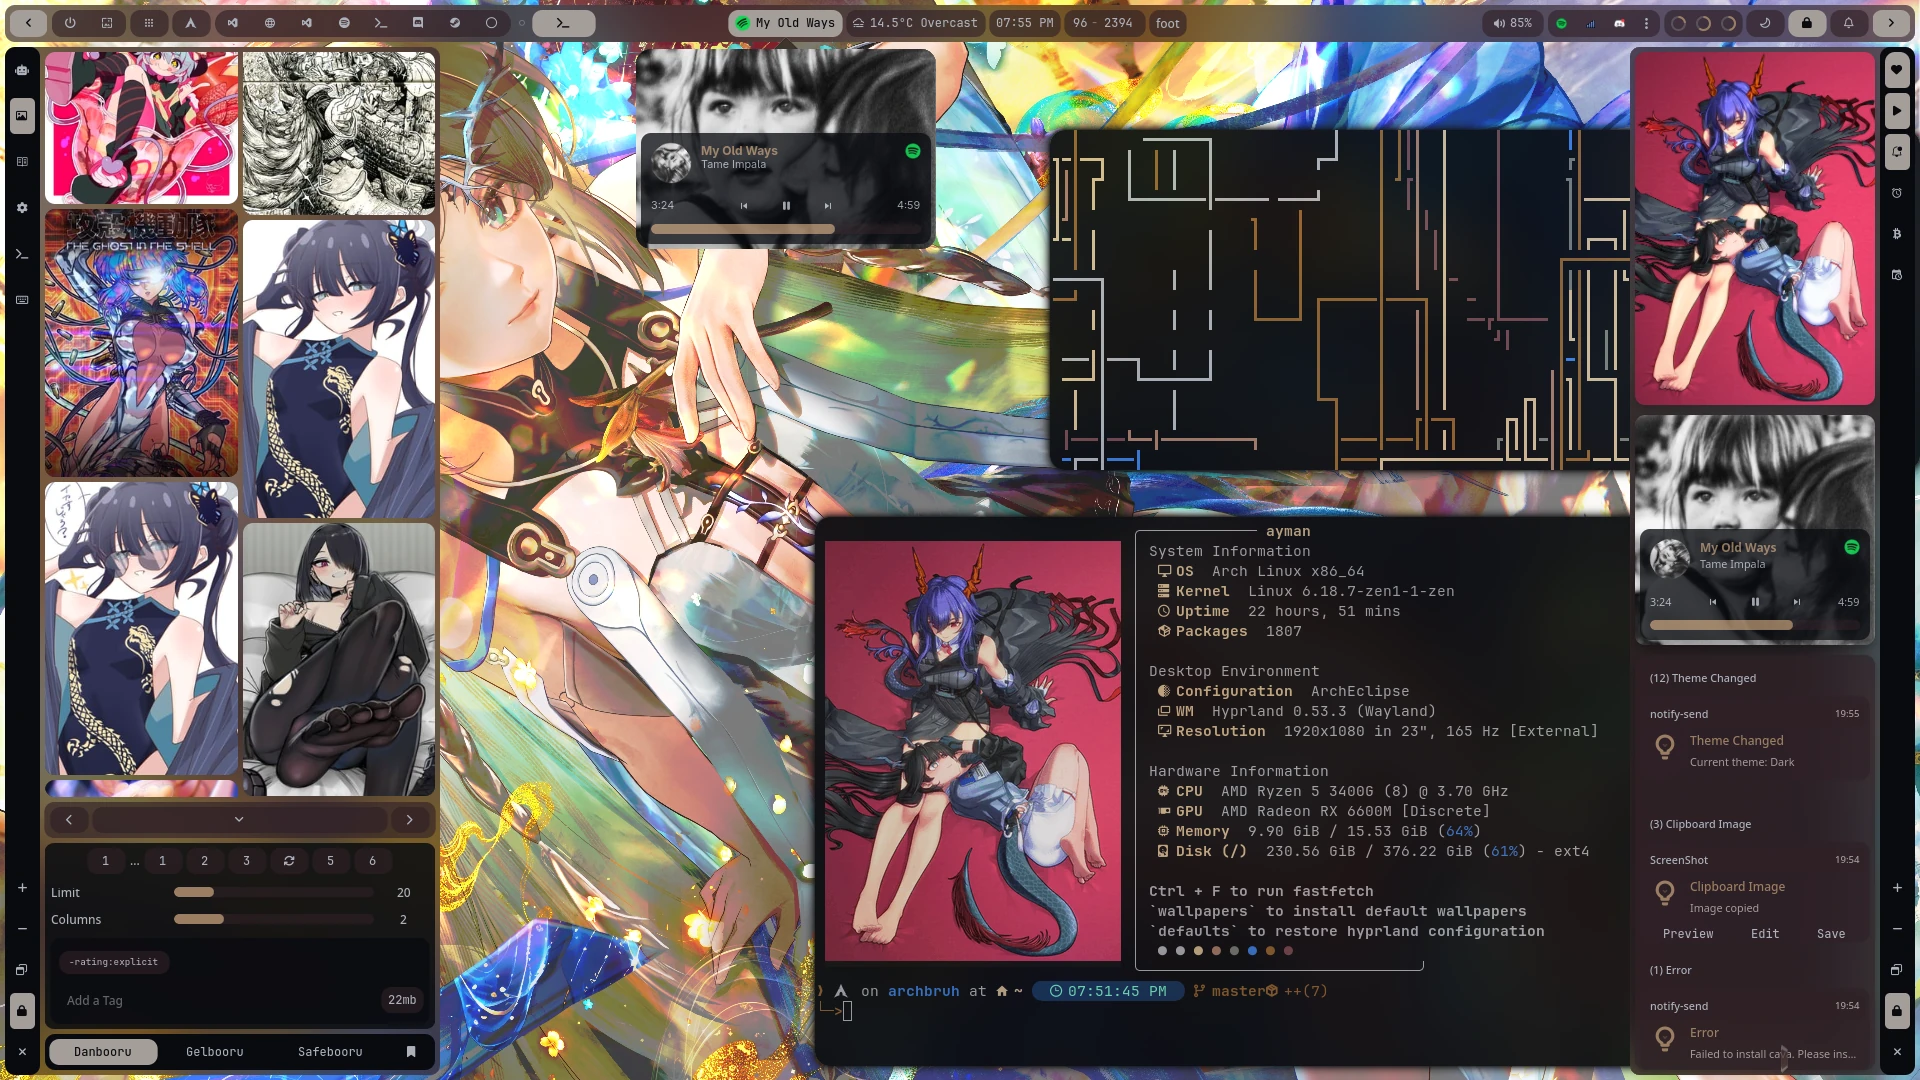
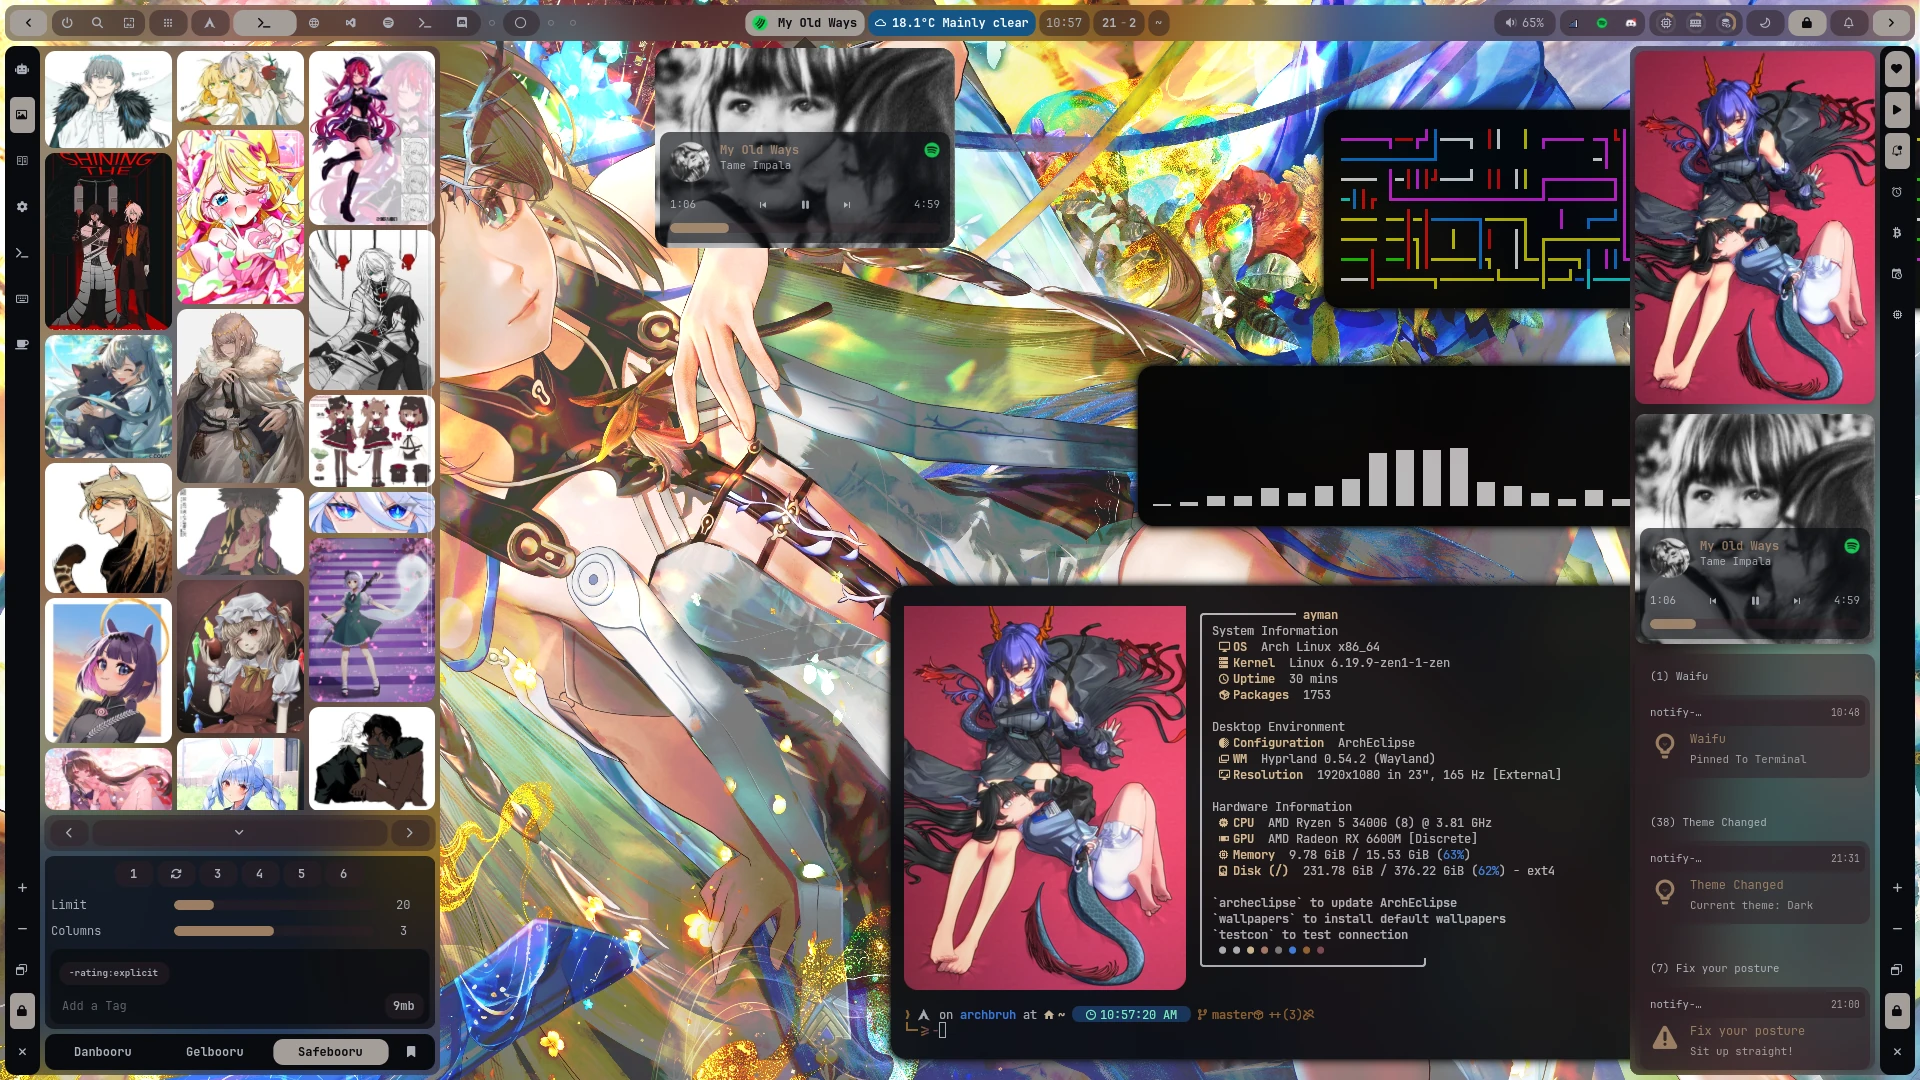
feat: refactor styles in Picture and WallpaperSwitcher, enhance Weather component, update README for clarity

diff --git a/.config/ags/widgets/Weather.tsx b/.config/ags/widgets/Weather.tsx
@@ -134,7 +134,7 @@ const weatherIcon = (w: any) => {
   return ""; // default to clear
 };
 
-export function Weather() {
+export function Weather({ moreDetails = false }: { moreDetails?: boolean }) {
   return (
     <box class="weather" spacing={12} orientation={Gtk.Orientation.VERTICAL}>
       <With value={weatherData}>
@@ -230,6 +230,7 @@ export function Weather() {
                 class={"weather-section"}
                 orientation={Gtk.Orientation.VERTICAL}
                 spacing={12}
+                visible={moreDetails}
               >
                 <label class="weather-subheading" label="Today's Forecast" />
                 <box class="daily-forecast" spacing={8}>
@@ -288,6 +289,7 @@ export function Weather() {
                 class={"weather-section"}
                 orientation={Gtk.Orientation.VERTICAL}
                 spacing={12}
+                visible={moreDetails}
               >
                 <label class="weather-subheading" label="Hourly Forecast" />
 
@@ -397,7 +399,7 @@ export function WeatherButton() {
           autohide: true,
         });
 
-        popover.set_child((<Weather />) as unknown as Gtk.Widget);
+        popover.set_child((<Weather moreDetails />) as unknown as Gtk.Widget);
         popover.set_parent(self);
 
         popover.connect("notify::visible", () => {

diff --git a/.config/ags/widgets/WallpaperSwitcher.tsx b/.config/ags/widgets/WallpaperSwitcher.tsx
@@ -127,7 +127,10 @@ function Display() {
                     <Picture
                       class="wallpaper"
                       file={toThumbnailPath(wallpaper)}
-                      info={[wallpaper.split(".").pop() || "unknown"]}
+                      info={[
+                        String(workspaceId + 1),
+                        wallpaper.split(".").pop() || "unknown",
+                      ]}
                     ></Picture>
                   )}
                 </button>
@@ -445,9 +448,14 @@ function Display() {
       <popover>
         <With value={wallpapers}>
           {(wallpapers) => (
-            <box orientation={Gtk.Orientation.VERTICAL} spacing={5}>
+            <box
+              orientation={Gtk.Orientation.VERTICAL}
+              spacing={5}
+              class={"popover"}
+            >
               {Object.keys(wallpapers).map((category) => (
                 <button
+                  class={"category"}
                   label={category}
                   onClicked={() =>
                     setGlobalSetting("wallpaperSwitcher.category", category)

diff --git a/.config/ags/scss/widgets/picture.scss b/.config/ags/scss/widgets/picture.scss
@@ -1,10 +1,13 @@
 .image {
-  .image-info-item {
-    // @include module;
-    background-color: $background;
-    font-size: 0.9em;
-    padding: 2px 5px;
+  .image-info {
     margin: 5px;
-    border-radius: 5px;
+
+    .image-info-item {
+      // @include module;
+      background-color: $background;
+      font-size: 0.9em;
+      padding: 2px 5px;
+      border-radius: 5px;
+    }
   }
 }

diff --git a/.config/ags/widgets/Picture.tsx b/.config/ags/widgets/Picture.tsx
@@ -85,6 +85,7 @@ export default function Picture({
         halign={Gtk.Align.END}
         valign={Gtk.Align.END}
         visible={info != undefined}
+        spacing={5}
       >
         {info?.map((i) => (
           <label class={"image-info-item"} label={i} />

diff --git a/.config/ags/widgets/AlwaysOnWidget.tsx b/.config/ags/widgets/AlwaysOnWidget.tsx
@@ -34,7 +34,7 @@ export default ({
         // setup(self);
       }}
     >
-      <box>{Weather()}</box>
+      <Weather />
     </window>
   );
 };

diff --git a/.config/ags/scss/widgets/wallpaper-switcher.scss b/.config/ags/scss/widgets/wallpaper-switcher.scss
@@ -72,4 +72,8 @@
   .no-wallpaper {
     background-color: $background;
   }
+
+  .category-selector .popover {
+    @include module;
+  }
 }

diff --git a/README.md b/README.md
@@ -26,7 +26,7 @@ Official [Discord](https://discord.gg/fMGt4vH6s5) server.
 
 # Features
 
-- **Dynamic wallpapers (static/animated)** based on each workspace: Custom scripts & [Hyprpaper](https://github.com/hyprwm/hyprpaper)
+- **Dynamic wallpapers (static/animated)** based on each workspace: Custom scripts & [Hyprpaper](https://github.com/hyprwm/hyprpaper) / [Mpvpaper](https://github.com/GhostNaN/mpvpaper)
 - **Dynamic color schemes** based on current wallpaper: Custom scripts & [PyWal](https://github.com/dylanaraps/pywal)
 - **Global Theme switcher (Light/Dark)**: Custom scripts
 - **Ags V3 - GTK 4 widgets** ~~(Eww replaced & Ags V2 / Gtk 3 replaced)~~: _these are just some of the features_
@@ -107,7 +107,7 @@ bash -c "$(curl -fsSL https://raw.githubusercontent.com/AymanLyesri/ArchEclipse/
 
 ## Update Guide
 
-> To update the config and its related pkgs Simply run `update` in the terminal
+> To update the config and its related pkgs Simply run `archeclipse` in the terminal
 
 ```bash
 archeclipse
